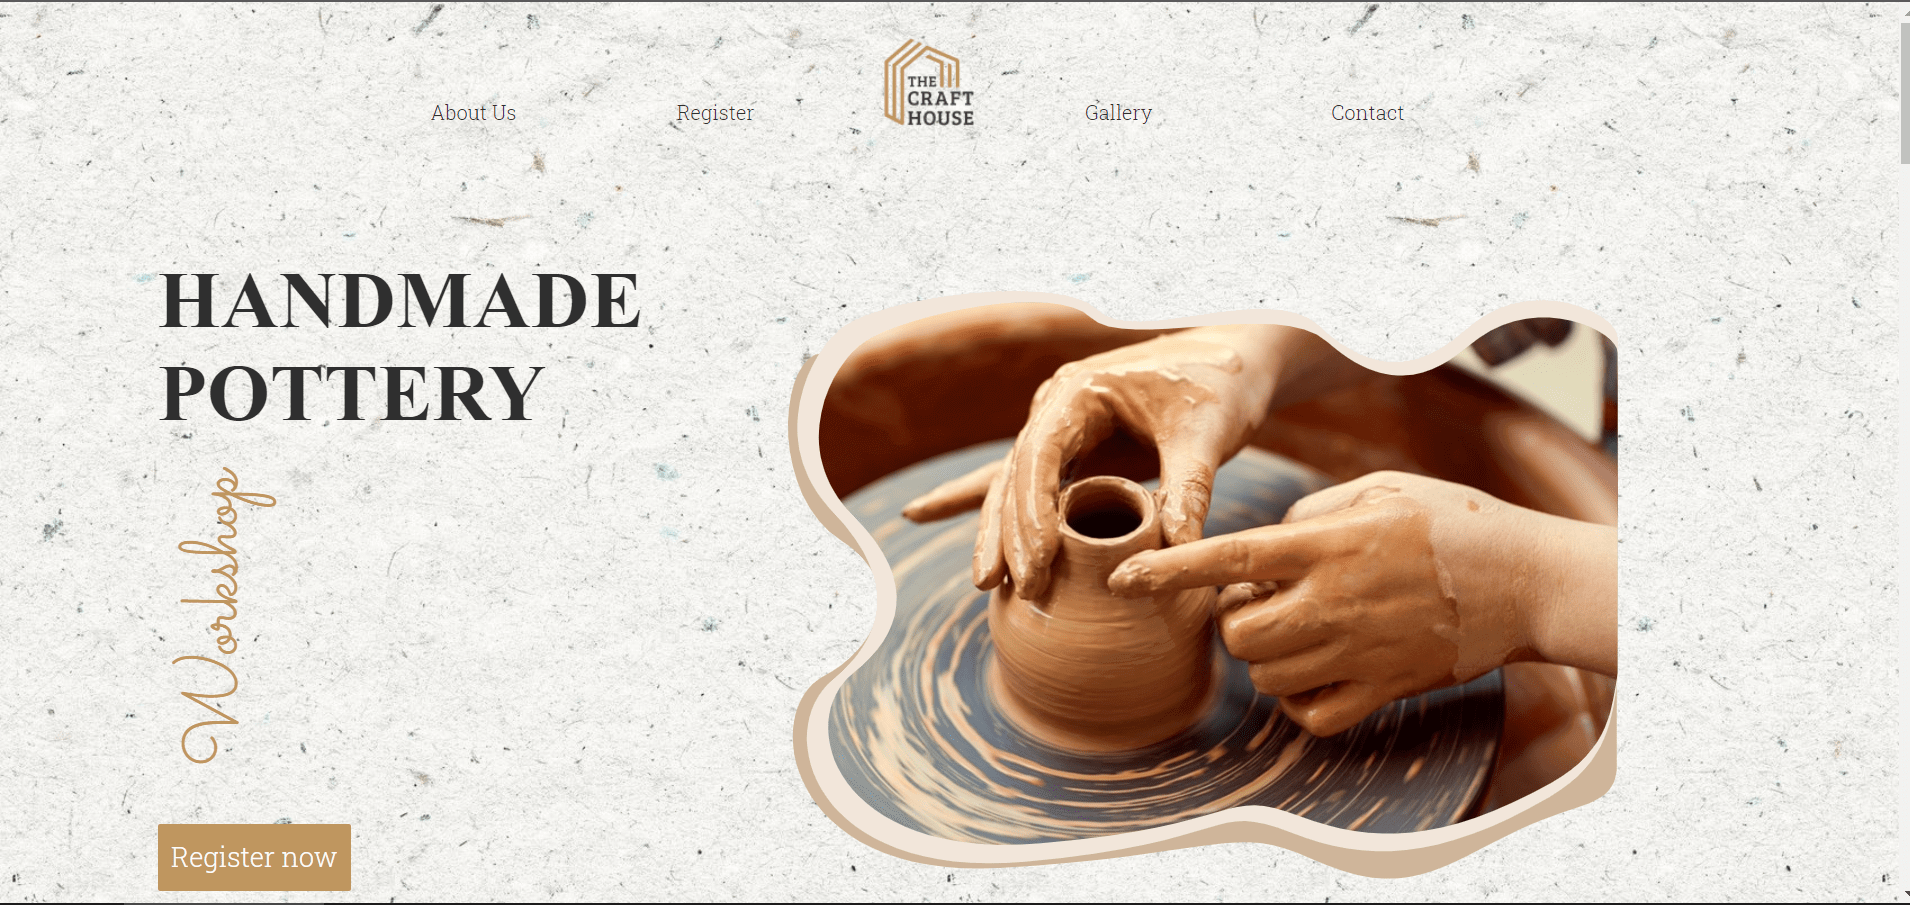
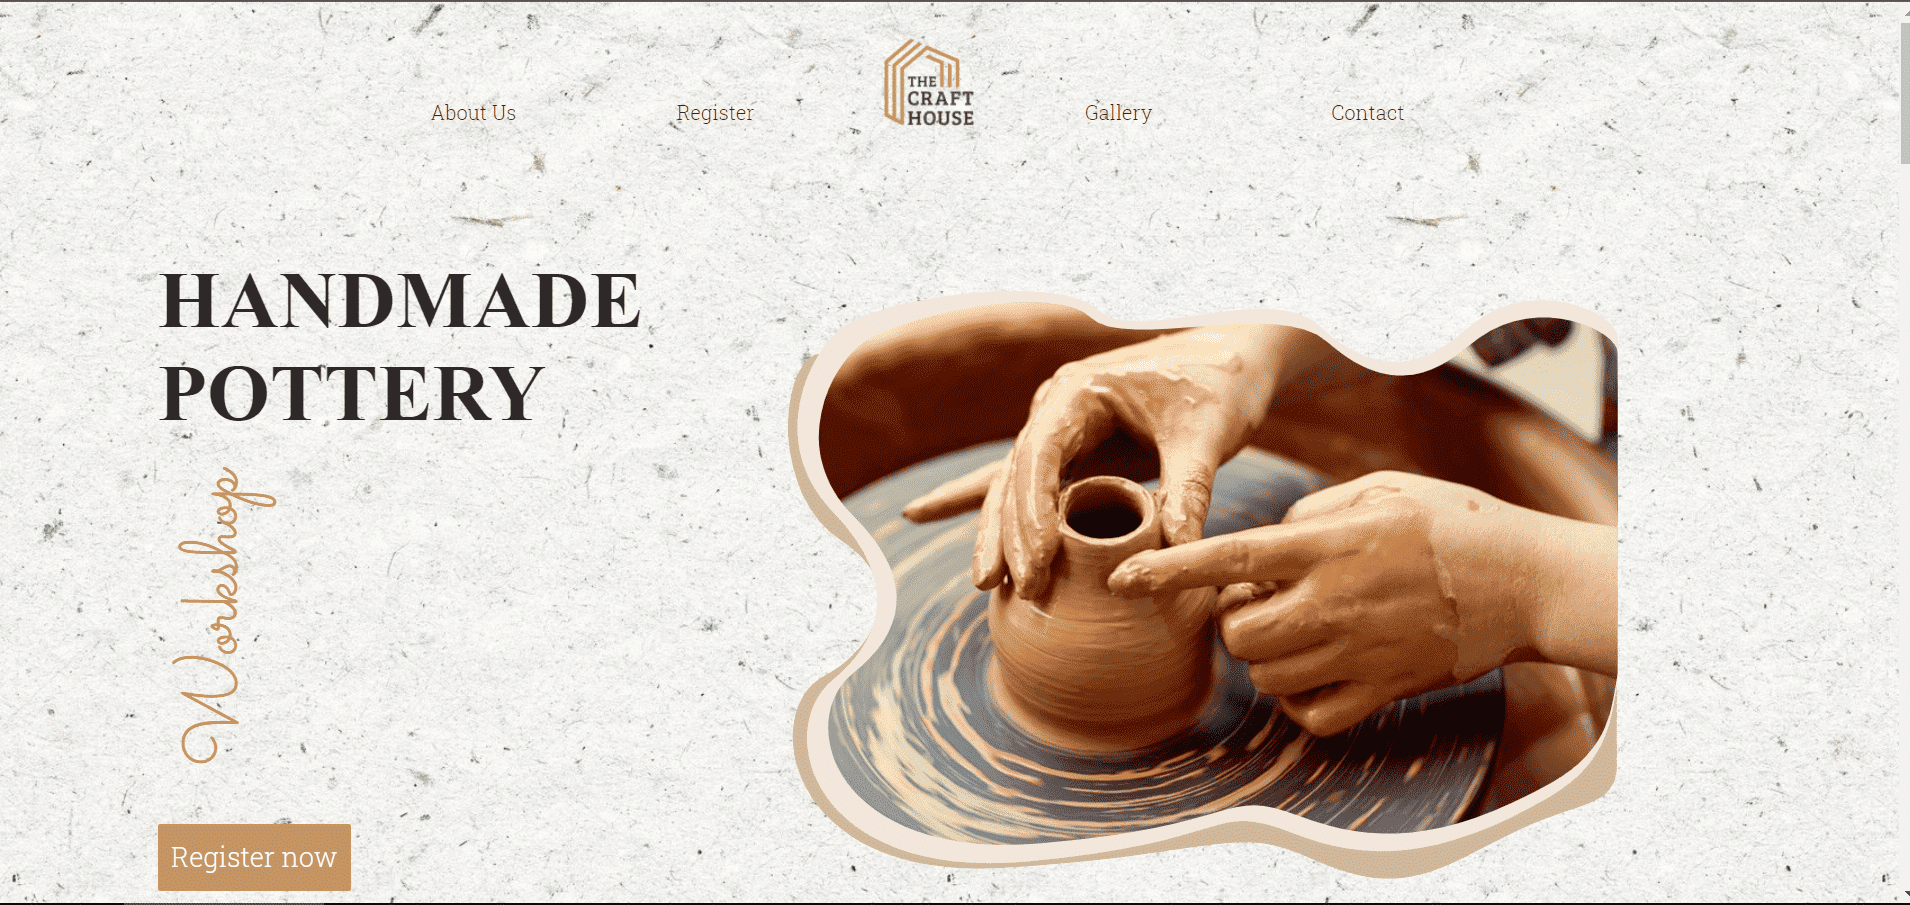
Improve Performance by changing the position of script tag and link tag, add descriptive headline on form and compressed image

diff --git a/public/index.html b/public/index.html
@@ -4,15 +4,9 @@
     <meta charset="utf-8" />
     <meta name="viewport" content="width=device-width, initial-scale=1" />
     <meta name="theme-color" content="#000000" />
-    <script type='text/javascript' src='https://cdn.jsdelivr.net/npm/emailjs-com@2/dist/email.min.js'></script>
-    <script type='text/javascript'>
-    (function(){
-       emailjs.init('user_pYBPiABaQA2DtYNdzP8gL');
-    })();
-    </script> 
+    <meta name="Description" content="Tri Minh Tran Portfolio">
     <link href="https://fonts.googleapis.com/css2?family=Open+Sans+Condensed:wght@300&display=swap" rel="stylesheet">
-    <link rel="stylesheet" href="https://pro.fontawesome.com/releases/v5.13.0/css/all.css">
-    <script data-search-pseudo-elements defer src="https://pro.fontawesome.com/releases/v5.10.1/js/all.js"></script>
+    <link rel="stylesheet" href="https://pro.fontawesome.com/releases/v5.13.0/css/all.css" rel=preconnect>
     <link href="https://fonts.googleapis.com/css2?family=Roboto&display=swap" rel="stylesheet">
     <link rel="manifest" href="%PUBLIC_URL%/manifest.json" />
 
@@ -44,6 +38,15 @@
       To begin the development, run `npm start` or `yarn start`.
       To create a production bundle, use `npm run build` or `yarn build`.
     -->
+    <script data-search-pseudo-elements defer src="https://pro.fontawesome.com/releases/v5.10.1/js/all.js"></script>
+
+    <script type='text/javascript' async src='https://cdn.jsdelivr.net/npm/emailjs-com@2/dist/email.min.js'></script>
+    <script type='text/javascript' >
+    (function(){
+       emailjs.init('user_pYBPiABaQA2DtYNdzP8gL');
+    })();
+    </script> 
+
         <!-- The core Firebase JS SDK is always required and must be listed first -->
 <script src="https://www.gstatic.com/firebasejs/7.19.0/firebase-app.js"></script>
 

diff --git a/src/Components/ContactMe/ContactMe.js b/src/Components/ContactMe/ContactMe.js
@@ -62,7 +62,7 @@ const SubTitle = styled.div`
     }
 `;
 
-const InputContainer = styled.div`
+const InputContainer = styled.form`
     width: 100%;
 `;
 
@@ -192,9 +192,9 @@ export default function ContactMe() {
             <MarginContainer>
                 <Title>Contact Me</Title>
                 <InputContainer>
-                    <SubTitleContainer> <SubTitle>Name : </SubTitle><Input value={name} onChange={HandlerNameChange} placeholder="Your Name" /> </SubTitleContainer>
-                    <SubTitleContainer> <SubTitle>Gmail :</SubTitle> <Input value={email} onChange={HandlerEmailChange} placeholder="Your Gmail" /> </SubTitleContainer>
-                    <SubTitleContainer> <SubTitle>Messages :</SubTitle> <InputTextArea rows="15" value={message} onChange={HandlerMessageChange} placeholder="What is on your mind ?" /> </SubTitleContainer>
+                    <SubTitleContainer> <SubTitle>Name : </SubTitle><Input name="name" value={name} onChange={HandlerNameChange} placeholder="Your Name" /> </SubTitleContainer>
+                    <SubTitleContainer> <SubTitle>Gmail :</SubTitle> <Input name="email" value={email} onChange={HandlerEmailChange} placeholder="Your Gmail" /> </SubTitleContainer>
+                    <SubTitleContainer> <SubTitle>Messages :</SubTitle> <InputTextArea name="message" rows="15" value={message} onChange={HandlerMessageChange} placeholder="What is on your mind ?" /> </SubTitleContainer>
                     <ButtonContainer>
                         <Button onClick={sendMessage}>Submit</Button>
                     </ButtonContainer>
